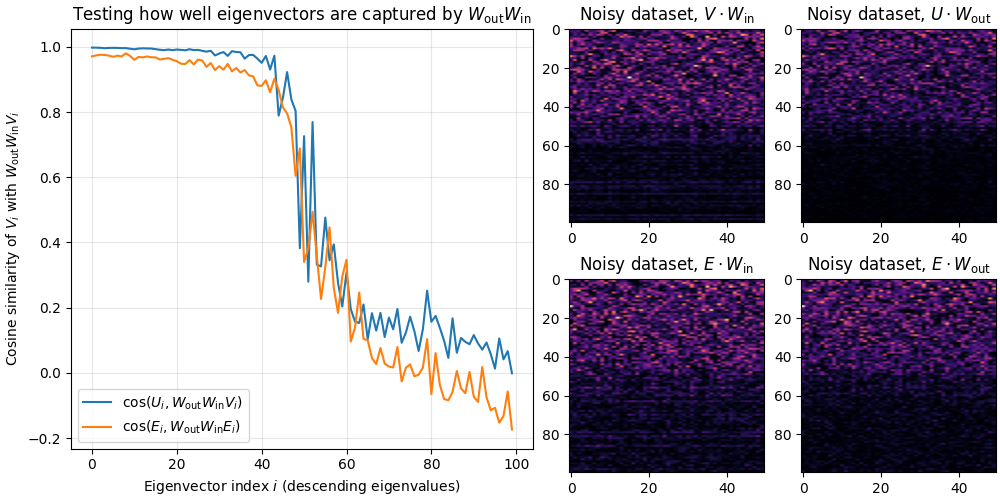
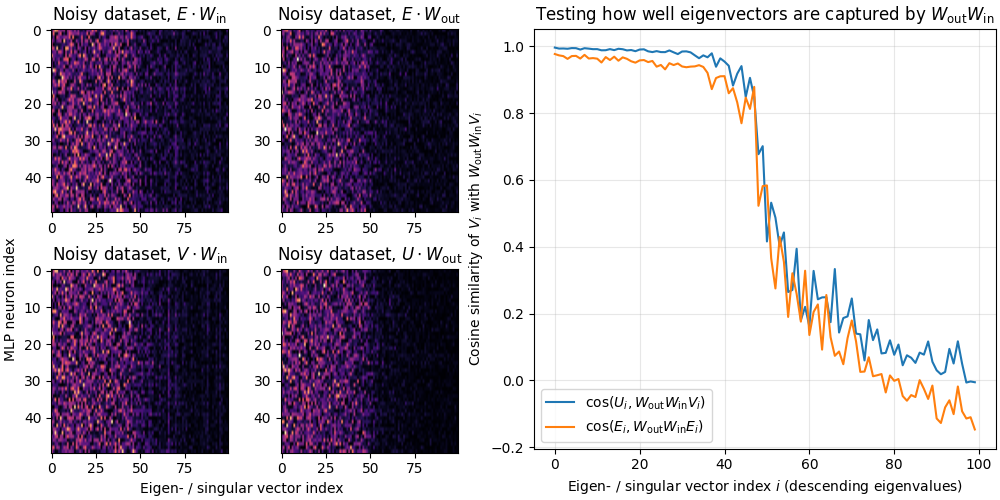
Finished section3 notebook

diff --git a/paper_code/nb3_svd_nmf.py b/paper_code/nb3_svd_nmf.py
@@ -117,4 +117,63 @@ plt.show()
 
 fig = compare_WoutWin_Mscaled(trained_model_noisy, noisy_dataset)
 fig.savefig("plots/nb3a_WoutWin_Mscaled_noisy.png")
-# %%
+
+# %% Plot weights
+fig = trained_model_noisy.plot_weights()
+fig.savefig("plots/nb3b_weights_noisy.png")
+plt.show()
+
+# %% Semi-NMF solution
+
+scales = []
+losses = []
+models = []
+for scale in [0.0, 0.005, 0.008, 0.01, 0.015, 0.02, 0.03, 0.05]:
+    noisy_dataset_nmf = NoisyDataset(n_features, p, device=device, exactly_one_active_feature=True, scale=scale)
+    target_matrix = np.eye(n_features) + noisy_dataset_nmf.Mscaled.cpu().detach().numpy()
+    # NMF
+    nmf = NMF(n_components=d_mlp, init="random", random_state=42, max_iter=5000)
+    U_init = nmf.fit_transform(np.abs(target_matrix))
+    V_init = nmf.components_
+    # Semi NMF
+    U_pinv = np.linalg.pinv(U_init)
+    V_optimal = U_pinv @ target_matrix
+    U = U_init.copy()
+    V = V_optimal.copy()
+    initial_lr = 0.1
+    final_lr = 0.001
+    max_iterations = 500
+    for iteration in range(max_iterations):
+        progress = iteration / max_iterations
+        step_size = final_lr + 0.5 * (initial_lr - final_lr) * (1 + np.cos(np.pi * progress))
+        if np.linalg.cond(U) < 1e12:
+            U_pinv = np.linalg.pinv(U)
+            V = U_pinv @ target_matrix
+        else:
+            print("U is ill-conditioned, skipping iteration")
+        for _ in range(5):
+            grad_U = (U @ V - target_matrix) @ V.T
+            U = U - step_size * grad_U
+            U = np.maximum(U, 1e-8)
+    semi_nmf_model = MLP(n_features, d_mlp, device)
+    semi_nmf_model.w_in.data = torch.from_numpy(U).float().to(device)
+    semi_nmf_model.w_out.data = torch.from_numpy(V).float().to(device)
+    semi_nmf_noisy_loss = evaluate(semi_nmf_model, noisy_dataset_nmf, n_samples=500_000) / p
+    print(f"Semi-NMF on noisy scale {scale:.3f}: {semi_nmf_noisy_loss:.4f}")
+    scales.append(scale)
+    losses.append(semi_nmf_noisy_loss)
+    models.append(semi_nmf_model)
+
+fig, ax = plt.subplots(constrained_layout=True)
+ax.plot(scales, losses, label="Semi-NMF solution", marker="o")
+ax.axhline(y=0.0833, color="k", ls="--", label="Naive loss")
+ax.set_xlabel("Dataset label noise scale $\\sigma$")
+ax.set_ylabel("Loss per feature $L / p$")
+ax.grid(True, alpha=0.3)
+ax.legend()
+fig.savefig("plots/nb3c_semi_nmf_solution.png")
+plt.show()
+
+for model in models:
+    model.plot_weights()
+    compare_WoutWin_Mscaled(model, noisy_dataset_nmf)

diff --git a/paper_code/mlpinsoup.py b/paper_code/mlpinsoup.py
@@ -356,7 +356,7 @@ def plot_loss_of_input_sparsity(
                 loss_at_p = evaluate(model, dataset)
                 highlight_adj_losses.append(loss_at_p / p)
     if show_naive:
-        ax.plot(ps, naive_adj_losses, color="k", ls="--", label="Naive solution")
+        ax.plot(ps, naive_adj_losses, color="k", ls="--", label="Naive loss")
     if highlight_ps is not None:
         ax.plot(highlight_ps, highlight_adj_losses, color="k", marker="o", ls=":", label="p_eval = p_train")
     ax.set_xscale("log")
